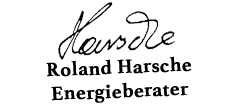
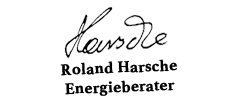
Formatted Aussteller #411

Changed region(s): [[0.224, 0.0, 0.7, 0.5357], [0.196, 0.7232, 0.756, 0.9375], [0.168, 0.5089, 0.784, 0.6964]]

diff --git a/public/app/plugins/wp-energieausweis-online/inc/WPENON/Model/EnergieausweisPDFGEG.php b/public/app/plugins/wp-energieausweis-online/inc/WPENON/Model/EnergieausweisPDFGEG.php
@@ -49,7 +49,7 @@ class EnergieausweisPDFGEG extends \WPENON\Util\UFPDI {
 			'marker'     => array( 'Arial', 'B', 7, 6.64 ),
 			'enev_datum' => array( 'Arial', '', 11, 5 ),
 			'registrier' => array( 'Arial', '', 7, 5 ),
-			'aussteller' => array( 'Arial', '', 11, 6 ),
+			'aussteller' => array( 'Arial', '', 10, 5.5 ),
 			'skala'      => array( 'Arial', 'B', 11, 7 ),
 			'klassen'    => array( 'Arial', '', 14, 6.64 ),
 			'klassen_b'  => array( 'Arial', 'B', 20, 6.64 ),
@@ -289,7 +289,7 @@ class EnergieausweisPDFGEG extends \WPENON\Util\UFPDI {
 
 					if ( ! $this->wpenon_preview ) {
 						$this->SetPageFont( 'aussteller' );
-						$this->SetXY( 25, 246 );
+						$this->SetXY( 25, 247 );
 						
 						$aussteller_firma = $this->GetData( 'sellermeta_firmenname' );
 						$aussteller_firma = apply_filters( 'wpenon_pdf_seller_company_name', $aussteller_firma, $this );
@@ -301,7 +301,7 @@ class EnergieausweisPDFGEG extends \WPENON\Util\UFPDI {
 						$this->WriteMultiCell( $aussteller_daten, 'C', 1, 77 );
 
 						if ( file_exists( WPENON_DATA_PATH . '/pdf-signature.png' ) ) {
-							$this->Image( WPENON_DATA_PATH . '/pdf-signature.png', 150, 243, 45 );
+							$this->Image( WPENON_DATA_PATH . '/pdf-signature.png', 150, 245, 45 );
 						}
 					}
 					break;
